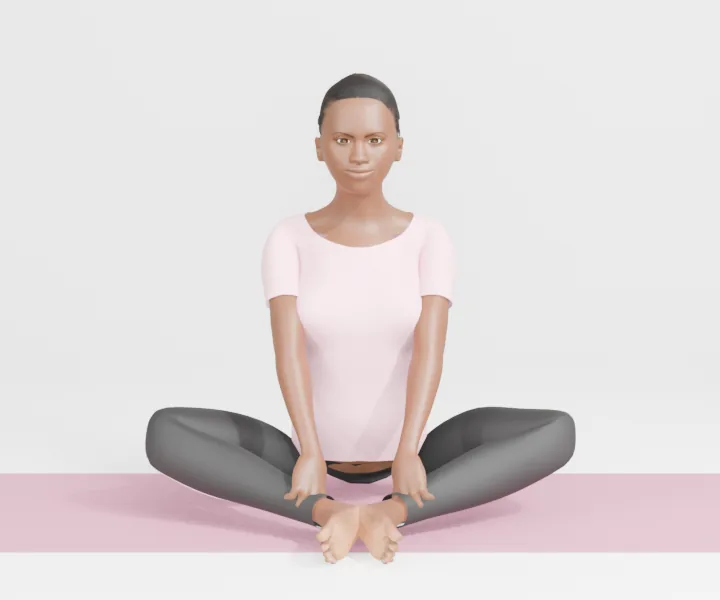
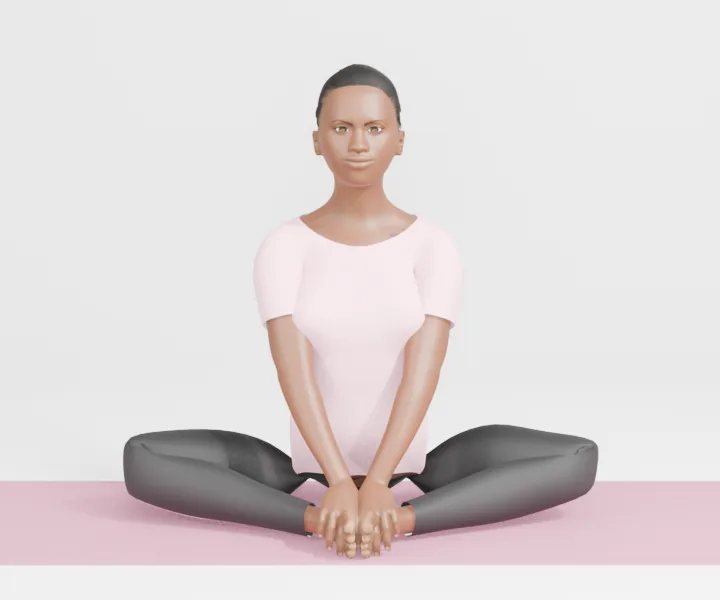
Rework the butterfly in the 3D figure
Mohit, 30 Oct: "butterfly needs rework". On his Flip5 as 0.39.44.1-pilot (vc 78).
The old loop splayed her feet into a V (soles to the camera, heels crossing), rested her
hands on her ankles with the fingers hanging, slumped her back and hardly dropped her knees.
1. Her soles press together on their outer edges, toes ahead and heels drawn in; her knees
   drop to about 10 cm off the mat and rise to about 25.
2. She sits tall, hinged a little from her hips, her shoulders reaching forward and down,
   and her hands rest over her feet with her fingers round her toes (kit.py's new "cup"
   hand shape).
3. Only her knees move: her seat, feet and hands stay still (before, her whole body bobbed
   about 1 cm). One slow flap takes 2 seconds instead of 1.6, for "gently".
web/fig: the butterfly loop and its two stills. The app's words are unchanged.

Tests: test/moves3d.mjs passes 62/62 on V39.44 with these files. The other sessions' work
in progress (V39.45, the Play lines) is not in this commit.

diff --git a/web/tools/fig3d/moves.py b/web/tools/fig3d/moves.py
@@ -448,22 +448,35 @@ def twist(k):
     k.ground()
 
 
-def _butterfly(k, knee_z):
-    seated(k, lean=6)
+def _butterfly(k, up):
+    """Bhadrasana: the soles pressed together on their outer edges, heels drawn in, knees dropping out to her sides. She sits
+    tall, hinged a little forward from her hips, and her hands rest over her feet with her fingers round her toes. up lifts
+    her knees (0 to 1); her seat, feet and hands stay where they are, so only her knees move."""
+    seated(k, lean=12)
+    k.spine(bend=-8); k.neck(bend=-4)
     for s in LR:
-        k.leg(s, (SX[s] * 0.045, -0.33, 0.1), knee=(SX[s] * 0.9, -0.15, knee_z), toes=(0, -1, -0.15), sole=(-SX[s], 0, 0))
-        k.arm(s, (SX[s] * 0.075, -0.32, 0.14), elbow=(SX[s] * 0.5, -0.2, 0.6))   # her hands hold her feet
-        k.relax(s, (0, -0.3, -1))
-    k.shape('LR', 'hold')
+        k.rot('clavicle.' + s, (0, 0, 1), -SX[s] * 14); k.shrug(s, -6)   # her shoulders reach forward and down to her feet
+        # the sole faces her other foot and the foot points ahead (the foot bone runs 24 degrees from the sole, as in Kit.flat)
+        n = V((-SX[s], 0, 0))
+        k.leg(s, (SX[s] * 0.068, -0.22, 0.085), knee=(SX[s] * 0.9, -0.15, 0.05), toes=0.91 * FWD + 0.41 * n, sole=-0.41 * FWD + 0.91 * n)
+    for s in LR:
+        # her wrist above her instep, behind the big toe's base, as near as her arm reaches with the elbow soft; her hand
+        # slopes down over the ball of her foot
+        sh = k.sh(s); d = k.at('toe1-1.' + s) + V((0, 0.09, 0.04)) - sh
+        k.arm(s, sh + d.normalized() * min(d.length, k.bent(14)), elbow=(SX[s] * 0.6, -0.1, 0.3), palm=-UP,
+              fingers=(-SX[s] * 0.15, -0.85, -0.5))
+    k.shape('LR', 'cup')
     k.ground()
+    for s in LR:
+        k.T['knee' + s].location.z += 0.4 * up
 
 
 def butterfly(k):
-    _butterfly(k, 0.2)
+    _butterfly(k, 0)
 
 
 def butterfly2(k):
-    _butterfly(k, 0.48)
+    _butterfly(k, 1)
 
 
 def sit(k):
@@ -598,7 +611,8 @@ LOOPS = {
     'armsup': {'dur': 8, 'seq': [(0, 'pray'), (0.12, 'opens'), (0.25, 'armsup'), (0.34, 'tiptoe'), (0.62, 'tiptoe'), (0.72, 'armsup'),
                                  (0.86, 'opens'), (1.0, 'pray')]},
     'triangle': ('wide', 'triangle', 6, True),
-    'butterfly': ('butterfly', 'butterfly2', 1.6, False), 'twist': ('sitlong', 'twist', 6, True), 'knees': {'dur': 4, 'seq': [(0, 'knees'), (0.25, 'knees2'), (0.5, 'knees'), (0.75, 'knees3'), (1.0, 'knees')]},
+    # butterfly: "move your knees gently up and down", one slow flap in 2 seconds
+    'butterfly': ('butterfly', 'butterfly2', 2, False), 'twist': ('sitlong', 'twist', 6, True), 'knees': {'dur': 4, 'seq': [(0, 'knees'), (0.25, 'knees2'), (0.5, 'knees'), (0.75, 'knees3'), (1.0, 'knees')]},
     # Loosen up: "swing your arms in big circles", one slow circle in 3 seconds, starting from the still's position
     'warmup': {'dur': 3, 'seq': [(i / 8, 'circle%d' % ((135 + 45 * i) % 360)) for i in range(9)]},
     'chairfwd': ('chairsit', 'chairfwd', 6, True),   # the app's "Seated forward bend" (child pose with knee pain)

diff --git a/web/tools/fig3d/kit.py b/web/tools/fig3d/kit.py
@@ -28,6 +28,7 @@ SHAPES = {
     'flat': {'spread': 0.85, 'curl': (2, 4, 2), 'thumb': (0, 4, 2), 'tspread': 0.55},          # namaste, a palm on the wall
     'floor': {'spread': 0.25, 'curl': (0, 3, 2), 'thumb': (0, 3, 2), 'tspread': 0.1},          # a palm on the mat, fingers apart
     'hold': {'spread': 0.8, 'curl': (38, 48, 26), 'thumb': (12, 22, 16), 'tspread': 0.45},     # round a shin or a foot
+    'cup': {'spread': 0.8, 'curl': (20, 30, 16), 'thumb': (10, 18, 12), 'tspread': 0.5},       # over her toes
     'mudra': {'spread': 0.5, 'curl': (16, 26, 14), 'thumb': (14, 24, 16), 'tspread': 0.4, 'index': (36, 42, 24)},
 }
 

diff --git a/web/tools/fig3d/README.md b/web/tools/fig3d/README.md
@@ -29,13 +29,14 @@ credit line in the app.
     of straight, counted from her rest pose's bent elbow);
   - `point` gives a long arm in a direction, her shoulder lifting once the arm is above shoulder height; `relax` lets the
     hand carry on from the forearm;
-  - palms and soles face where a pose says, and `shape` picks the fingers' shape (relaxed, flat, on the floor, holding, a
-    mudra);
+  - palms and soles face where a pose says, and `shape` picks the fingers' shape (relaxed, flat, on the floor, holding,
+    cupped over her toes, a mudra);
   - `finish` (run after every pose) shapes the fingers and keeps each arm as joint turns, with the forearm, not the wrist,
     turning the palm.
 - `moves.py` holds the 43 positions, the in-between ones (Palm tree's open arms and toes, Loosen up's arm circles), the 17
   loops and the sun salutation. The loops follow the moves' words: Palm tree opens the arms wide, meets them overhead and
-  rises on the toes; Loosen up swings the arms in big circles.
+  rises on the toes; Loosen up swings the arms in big circles; in the butterfly only her knees lift and drop, while her seat,
+  her feet (soles together) and her hands over her toes stay still.
 - `stage.py` sets up the backdrop, lights, props (chair, wall, step, yoga mat) and the camera.
 - `render.py` renders a contact sheet, the stills, one loop, or the sun salutation. A loop's free arms move joint by joint,
   in arcs, while IK holds a hand that stays put (the floor, a wall, her knees); every turn takes the short way round, and a
